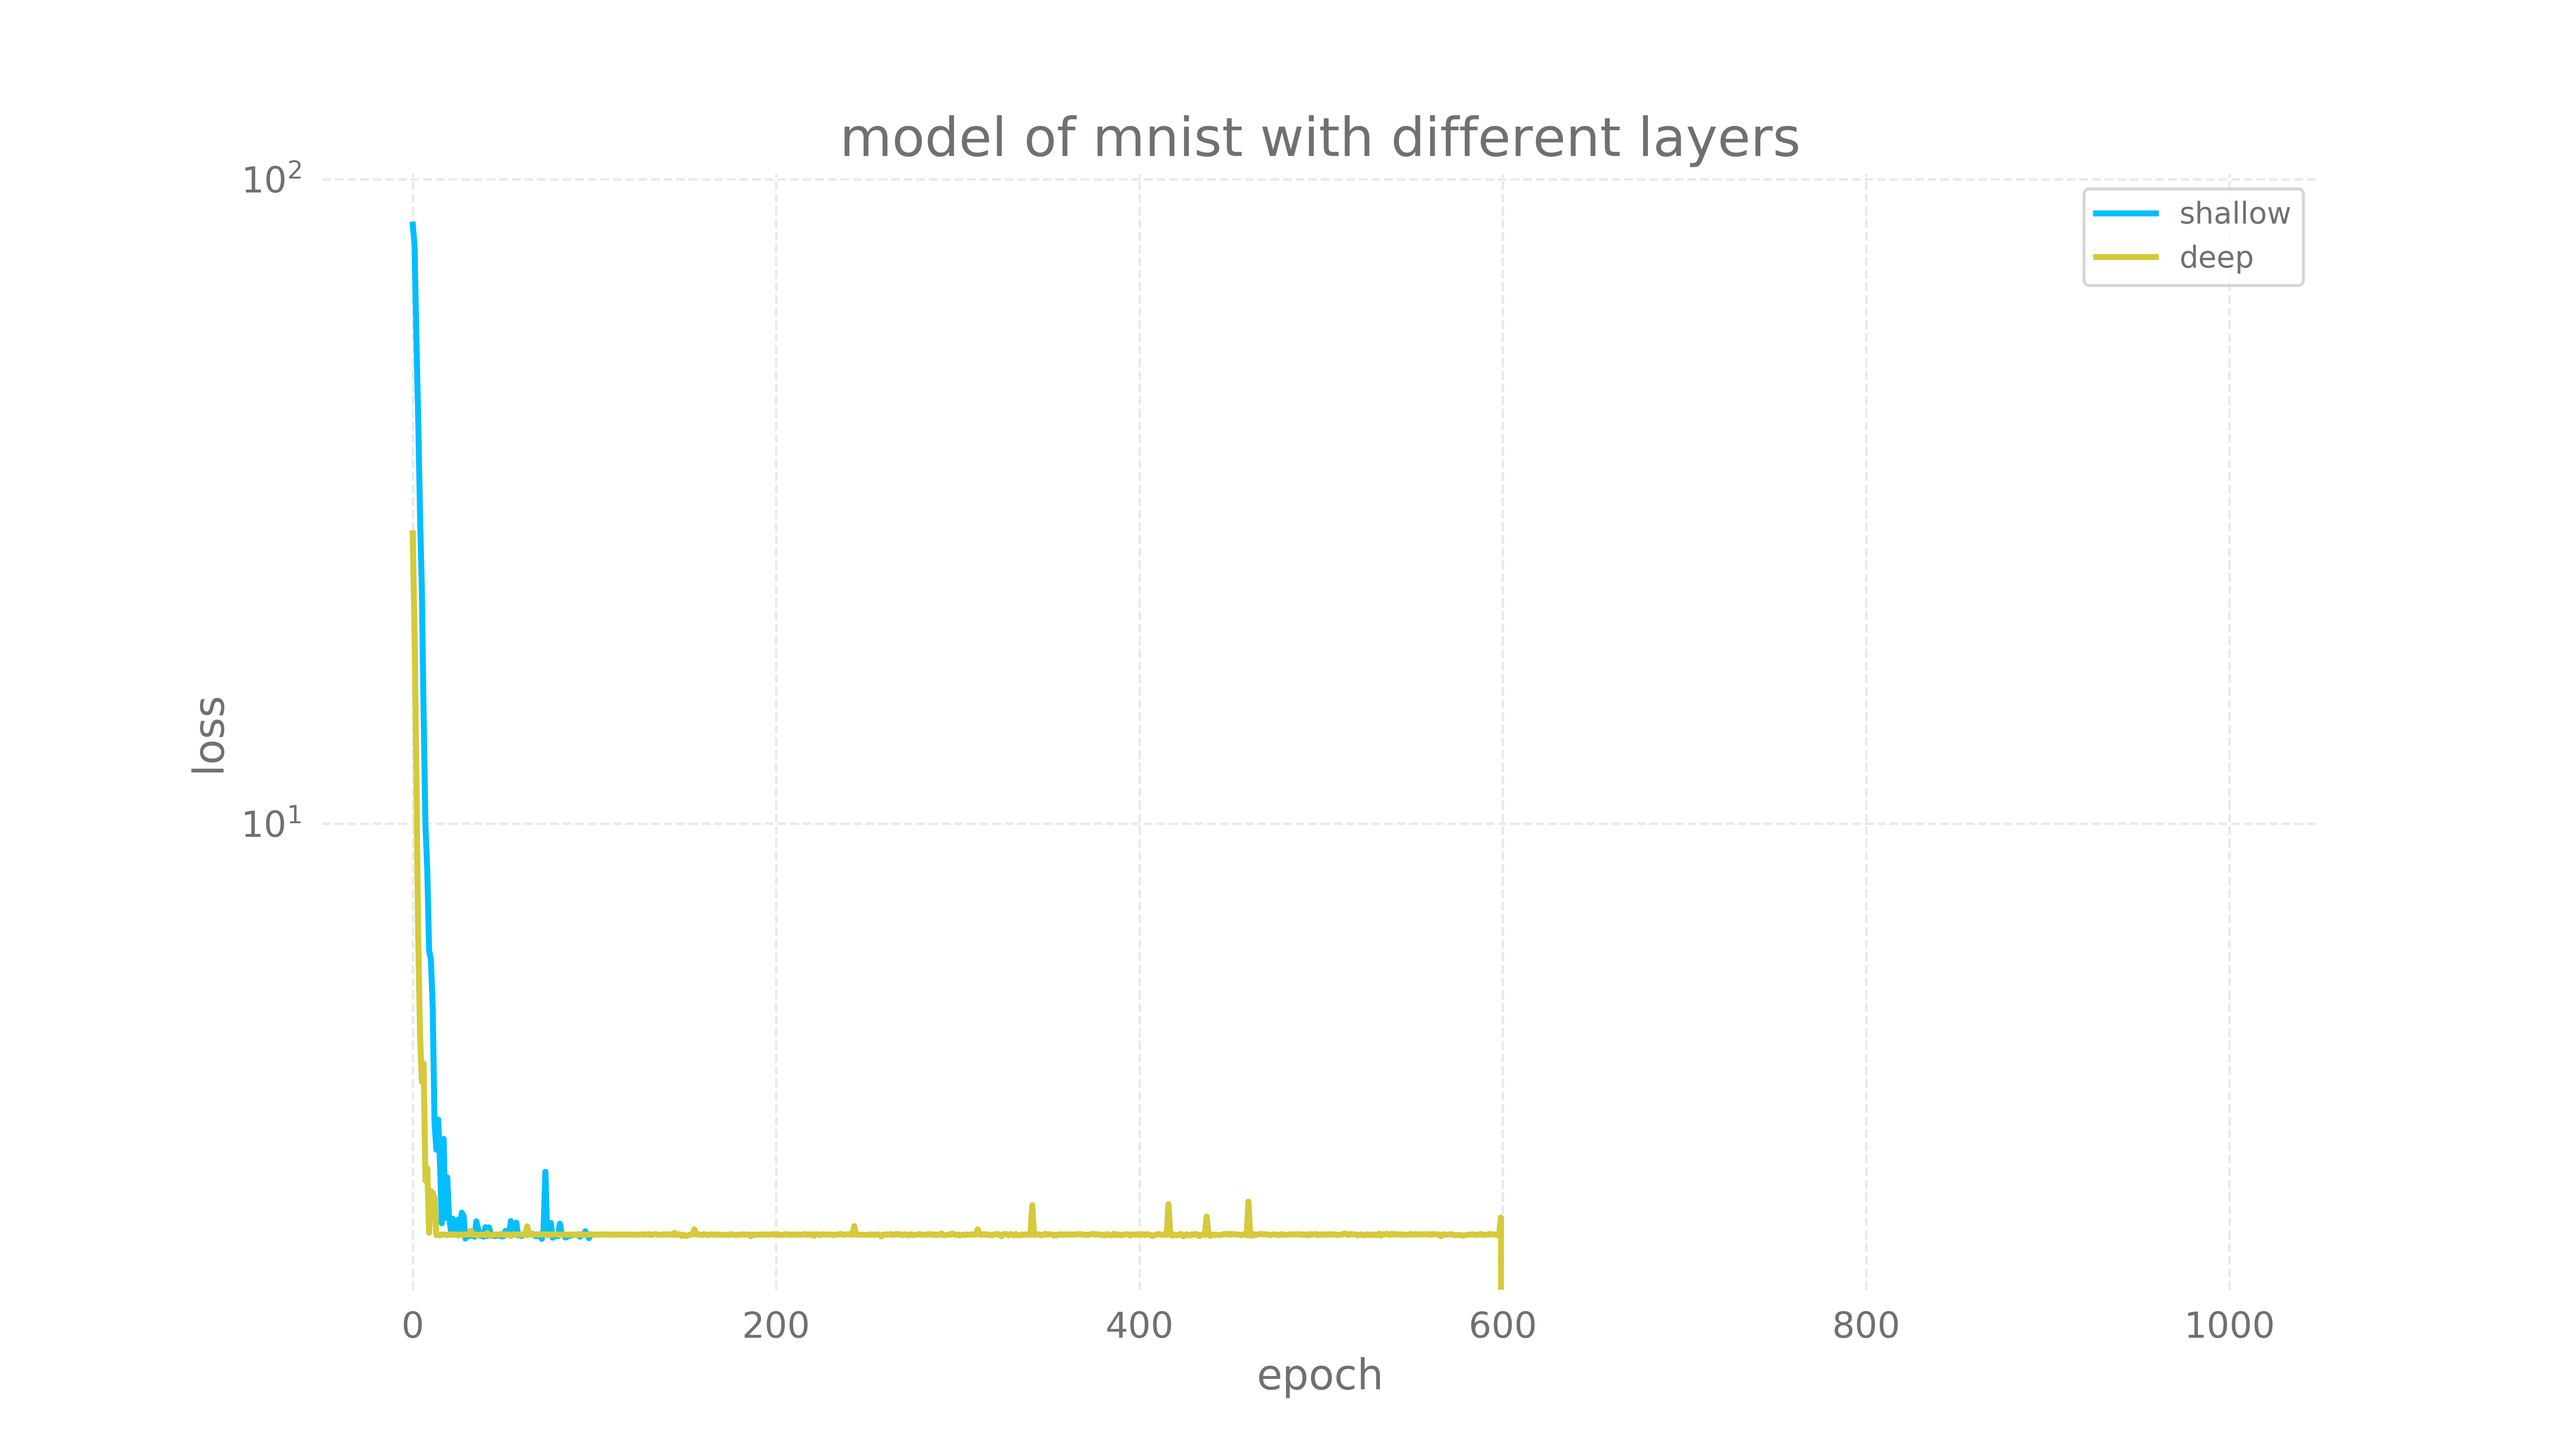
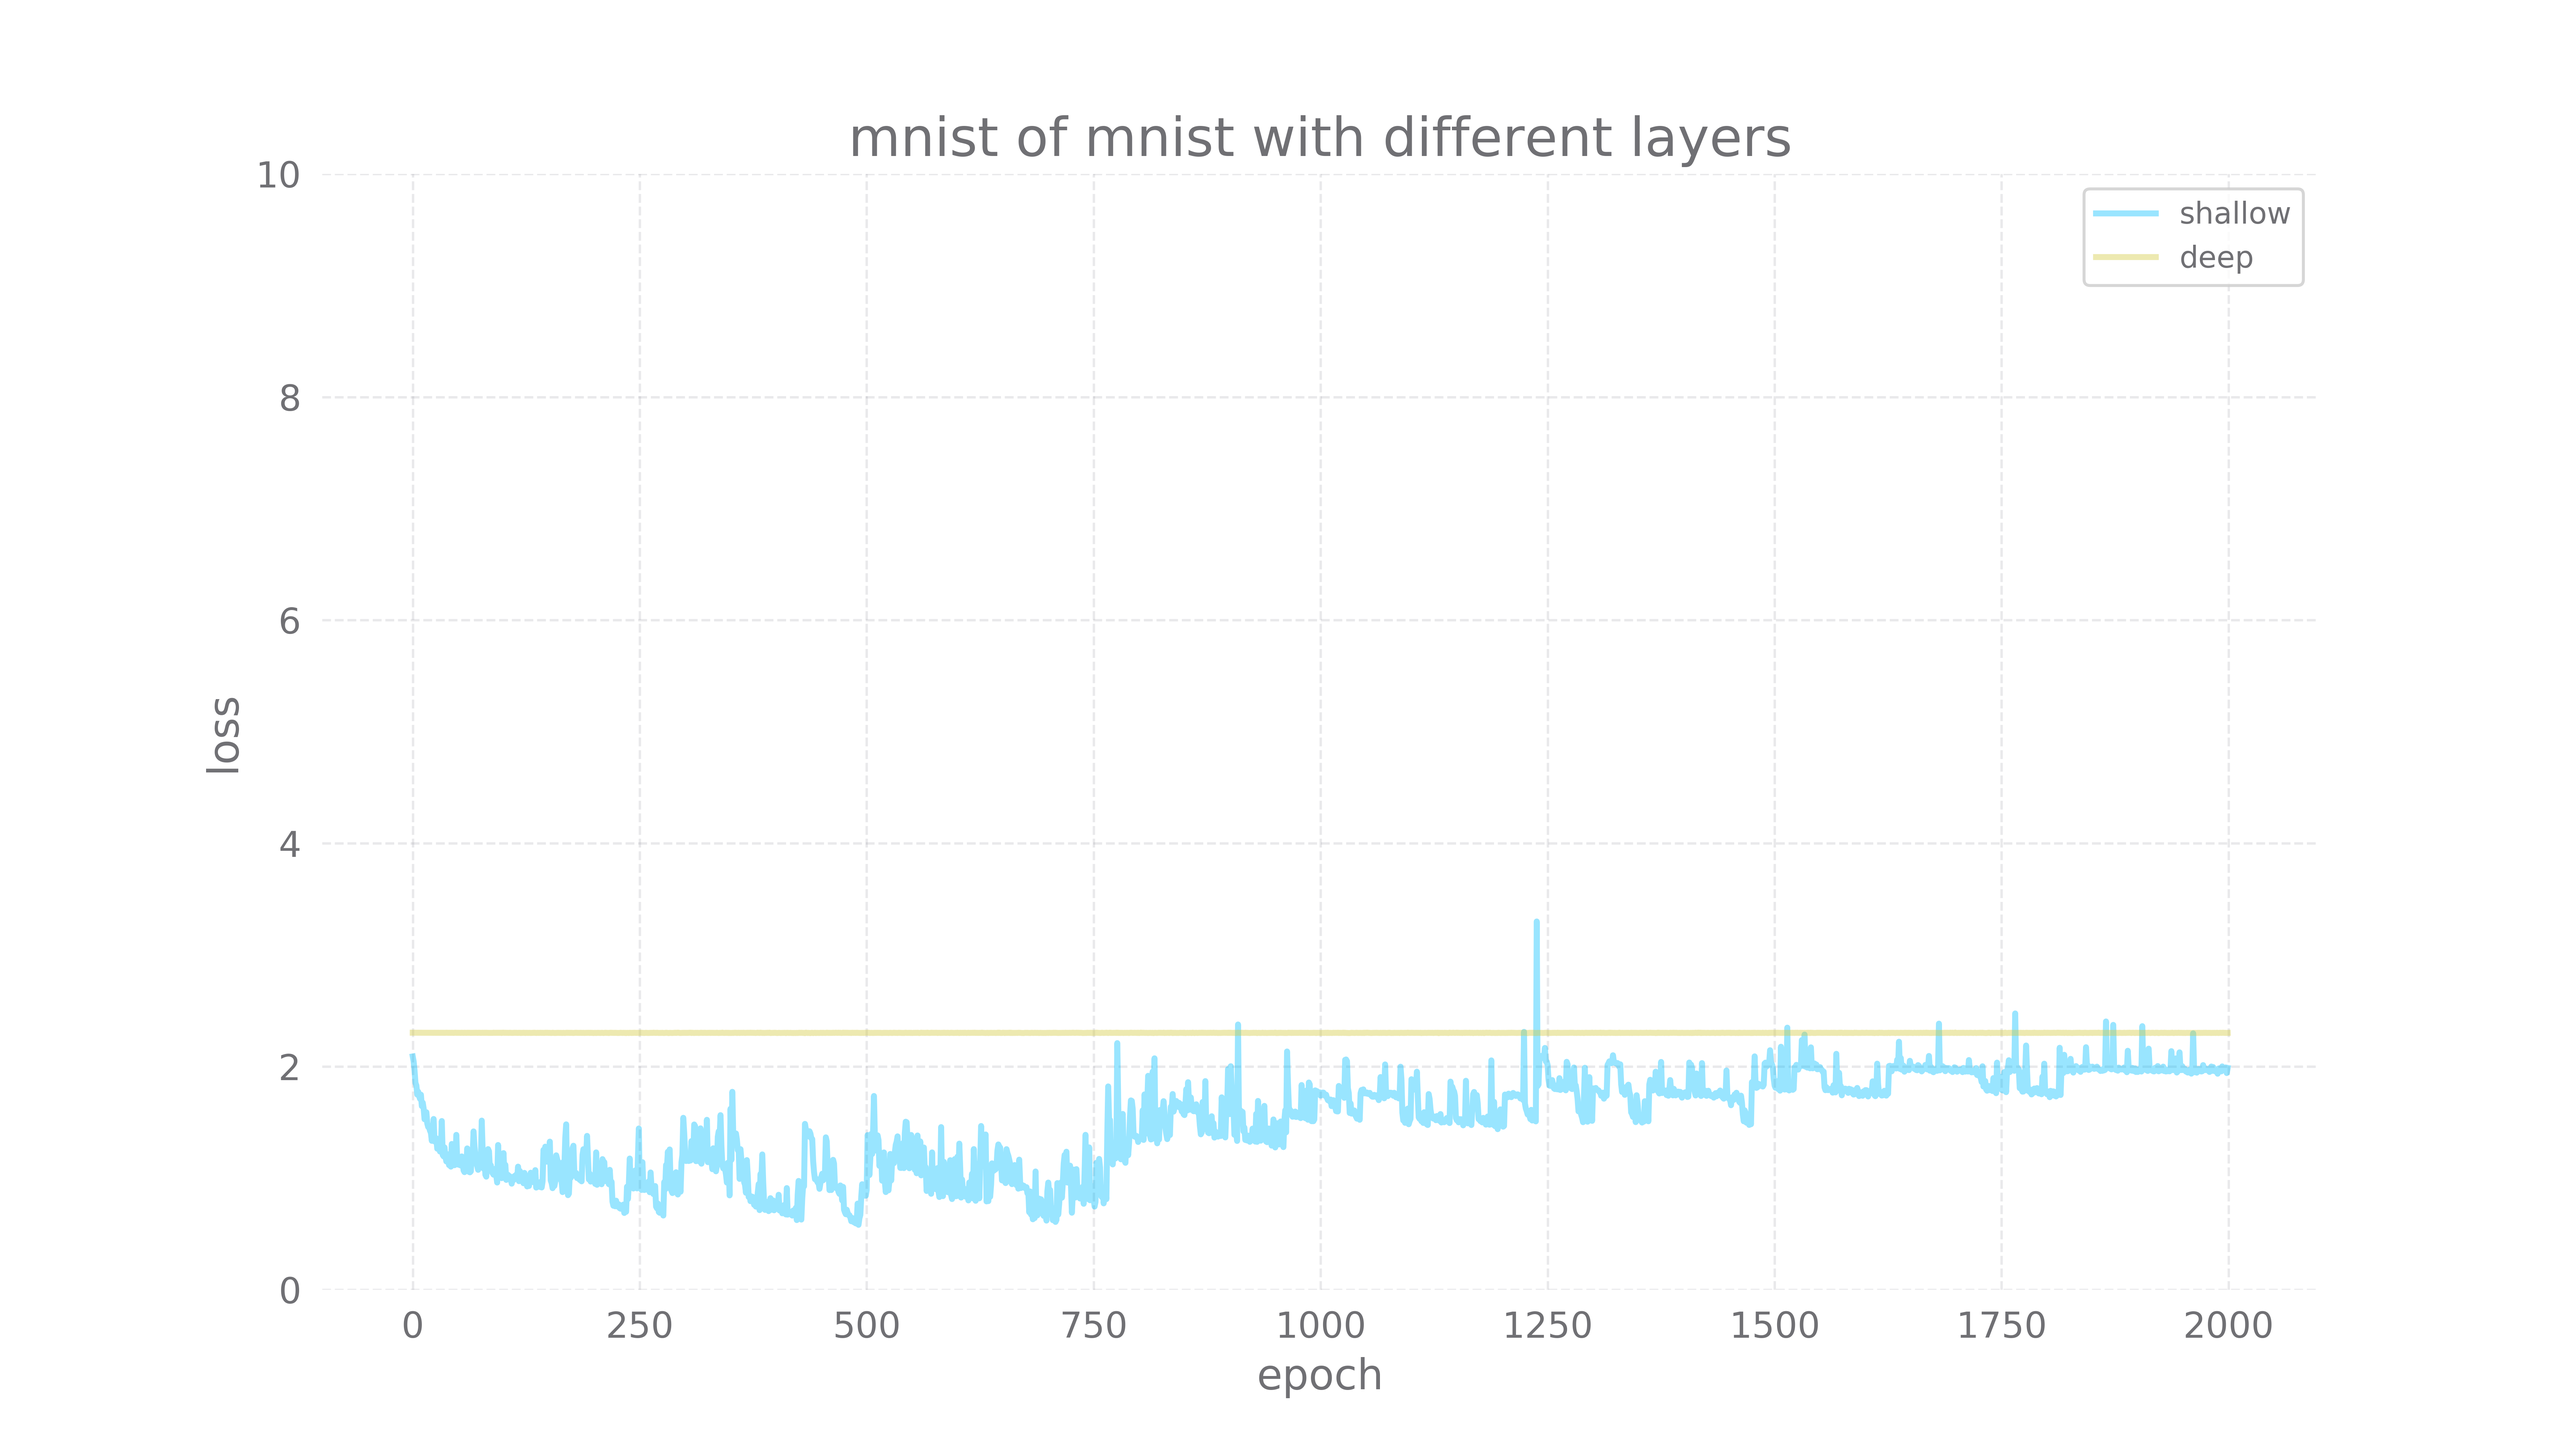
update

diff --git a/hw1-1/main.py b/hw1-1/main.py
@@ -1,6 +1,7 @@
 import tensorflow as tf
 import numpy as np
 import matplotlib.pyplot as plt
+import tqdm
 try:
     plt.style.use('gadfly')
 except:
@@ -11,77 +12,110 @@ class ShallowNet():
     def __init__(self, in_dim=1, out_dim=1, model_type='regression'):
         self.x = tf.placeholder(dtype=tf.float32, shape=[None, in_dim])
         self.y = tf.placeholder(dtype=tf.float32, shape=[None, out_dim])
-        self._hidden_layer = tf.layers.dense(inputs=self.x, units=5, activation=tf.nn.relu)
+        self._hidden_layer = tf.layers.dense(inputs=self.x, units=64, activation=tf.nn.relu)
         self._out_layer = tf.layers.dense(inputs=self._hidden_layer, units=out_dim)
         if model_type=='regression':
             self._loss = tf.losses.mean_squared_error(self._out_layer, self.y)
         else:
             self._loss = tf.losses.softmax_cross_entropy(self.y, self._out_layer)
-        self._opt = tf.train.AdamOptimizer()
+        self._opt = tf.train.GradientDescentOptimizer(1e-2)
         self._train_step = self._opt.minimize(self._loss)
         return
 
-    def train(self, x, y, batch_size=100, epoch=100):
-        bs = batch_size
+    def train(self, x, y, batch_size=5000, epoch=2000):
+        bs = batch_size if batch_size < len(x) else 50
+        num_batch = len(x) // bs
         his = []
-        print(y.shape)
         with tf.Session() as sess:
             sess.run(tf.global_variables_initializer())
-            for i in range(epoch):
-                fd = {self.x: x[i*bs: (i+1)*bs], self.y: y[i*bs: (i+1)*bs]}
-                sess.run(self._train_step, feed_dict=fd)
+            for i in tqdm.tqdm(range(epoch)):
+                for j in range(num_batch):
+                    fd = {self.x: x[j*bs: (j+1)*bs], self.y: y[j*bs: (j+1)*bs]}
+                    sess.run(self._train_step, feed_dict=fd)
                 his.append(sess.run(self._loss, feed_dict=fd))
-        return his
+                choice = np.random.choice(len(x), len(x), replace=False)
+                x, y = x[choice], y[choice]
+            pred = sess.run(self._out_layer, feed_dict={self.x: x, self.y: y})
+        return his, pred
 
 class DeepNet():
     def __init__(self, in_dim=1, out_dim=1, model_type='regression'):
         self.x = tf.placeholder(dtype=tf.float32, shape=[None, in_dim])
         self.y = tf.placeholder(dtype=tf.float32, shape=[None, out_dim])
-        self._hidden_layer = tf.layers.dense(self.x, 5, activation=tf.nn.relu)
-        self._hidden_layer2 = tf.layers.dense(self._hidden_layer, 5, activation=tf.nn.relu)
+        self._hidden_layer = tf.layers.dense(self.x, 7, activation=tf.nn.relu)
+        self._hidden_layer2 = tf.layers.dense(self._hidden_layer, 7, activation=tf.nn.relu)
         self._out_layer = tf.layers.dense(self._hidden_layer, out_dim)
         if model_type=='regression':
             self._loss = tf.losses.mean_squared_error(self._out_layer, self.y)
         else:
             self._loss = tf.losses.softmax_cross_entropy(self.y, self._out_layer)
-        self._opt = tf.train.AdamOptimizer()
+        self._opt = tf.train.GradientDescentOptimizer(1e-2)
         self._train_step = self._opt.minimize(self._loss)
         return
     
-    def train(self, x, y, batch_size=100, epoch=1000):
-        bs = batch_size
+    def train(self, x, y, batch_size=5000, epoch=2000):
+        bs = batch_size if batch_size < len(x) else 50
+        num_batch = len(x) // bs
         his = []
         with tf.Session() as sess:
             sess.run(tf.global_variables_initializer())
-            for i in range(epoch):
-                fd = {self.x: x[i*bs: (i+1)*bs], self.y: y[i*bs: (i+1)*bs]}
-                sess.run(self._train_step, feed_dict=fd)
+            for i in tqdm.tqdm(range(epoch)):
+                for j in range(num_batch):
+                    fd = {self.x: x[j*bs: (j+1)*bs], self.y: y[j*bs: (j+1)*bs]}
+                    sess.run(self._train_step, feed_dict=fd)
                 his.append(sess.run(self._loss, feed_dict=fd))
-        return his
+                choice = np.random.choice(len(x), len(x), replace=False)
+                x, y = x[choice], y[choice]
+            pred = sess.run(self._out_layer, feed_dict={self.x: x, self.y: y})
+        return his, pred
+
+def plot(his1, his2, name='mnist'):
+    plt.plot(np.arange(len(his1)), his1, label='shallow', alpha=0.4)
+    plt.plot(np.arange(len(his2)), his2, label='deep', alpha=0.4)
+    plt.legend()
+    
+    plt.ylim(0, 10)
+    # plt.yscale('log')
+    plt.xlabel('epoch')
+    plt.ylabel('loss')
+    plt.title('{} of mnist with different layers'.format(name))
+    
+    plt.savefig('hw1-1/{}.png'.format(name), dpi=600)
+    plt.close()
+    return
+
+def simulate(pred1, pred2):
+    x_sinc_ = np.linspace(-10, 10, 500) * 5 * 3.1415926
+    y_sinc_ = np.sinc(x_sinc_)
+    x_ = np.linspace(-10, 10, 50) * 5 * 3.1415926
+    plt.plot(x_, pred1, label='shallow')
+    plt.plot(x_, pred2, label='deep')
+    plt.plot(x_sinc_, y_sinc_, label='sinc(5x*pi)')
+    plt.legend()
+    plt.xlabel('x')
+    plt.ylabel('sinc(5x*pi)')
+    plt.savefig('hw1-1/{}.png'.format('result'), dpi=600)
+    plt.close()
+    return
 
 if __name__ == '__main__':
     plt.rcParams["figure.figsize"] = (12,6.75)
-    x_sinc, y_sinc = np.linspace(-5, 5, 100), np.sinc(np.linspace(-5, 5, 100))*10
+    x_sinc = np.linspace(-10, 10, 250) * 5 * 3.1415926
+    y_sinc = np.sinc(x_sinc)
     x_sinc, y_sinc = x_sinc[:, np.newaxis], y_sinc[:, np.newaxis]
     net1 = ShallowNet(out_dim=1)
-    net1.train(x_sinc, y_sinc)
+    his1, pred1 = net1.train(x_sinc, y_sinc)
     net2 = DeepNet(out_dim=1)
-    net2.train(x_sinc, y_sinc)
+    his2, pred2 = net2.train(x_sinc, y_sinc)
+    plot(his1, his2, 'sinc(5x*pi)')
+    simulate(pred1, pred2)
     del (net1, net2)
     
     (x_mnist, y_), (_, __) = tf.keras.datasets.mnist.load_data()
     x_mnist, y_mnist = x_mnist.reshape([x_mnist.shape[0], -1]), np.zeros((len(x_mnist), 10))
     y_mnist[np.arange(60000), y_] = 1
-    print(x_mnist.shape)
     net1 = ShallowNet(in_dim=28*28, out_dim=10, model_type='classification')
-    his1 = net1.train(x_mnist, y_mnist)
+    his1, _ = net1.train(x_mnist, y_mnist)
     net2 = DeepNet(in_dim=28*28, out_dim=10, model_type='classification')
-    his2 = net2.train(x_mnist, y_mnist)
-    plt.plot(np.arange(len(his1)), his1, label='shallow')
-    plt.plot(np.arange(len(his2)), his2, label='deep')
-    plt.legend()
-    plt.xlabel('epoch')
-    plt.ylabel('loss')
-    plt.title('model of mnist with different layers')
-    plt.yscale('log')
-    plt.savefig('hw1-1/mnist.png', dpi=600)
+    his2, _ = net2.train(x_mnist, y_mnist)
+    plot(his1, his2)
